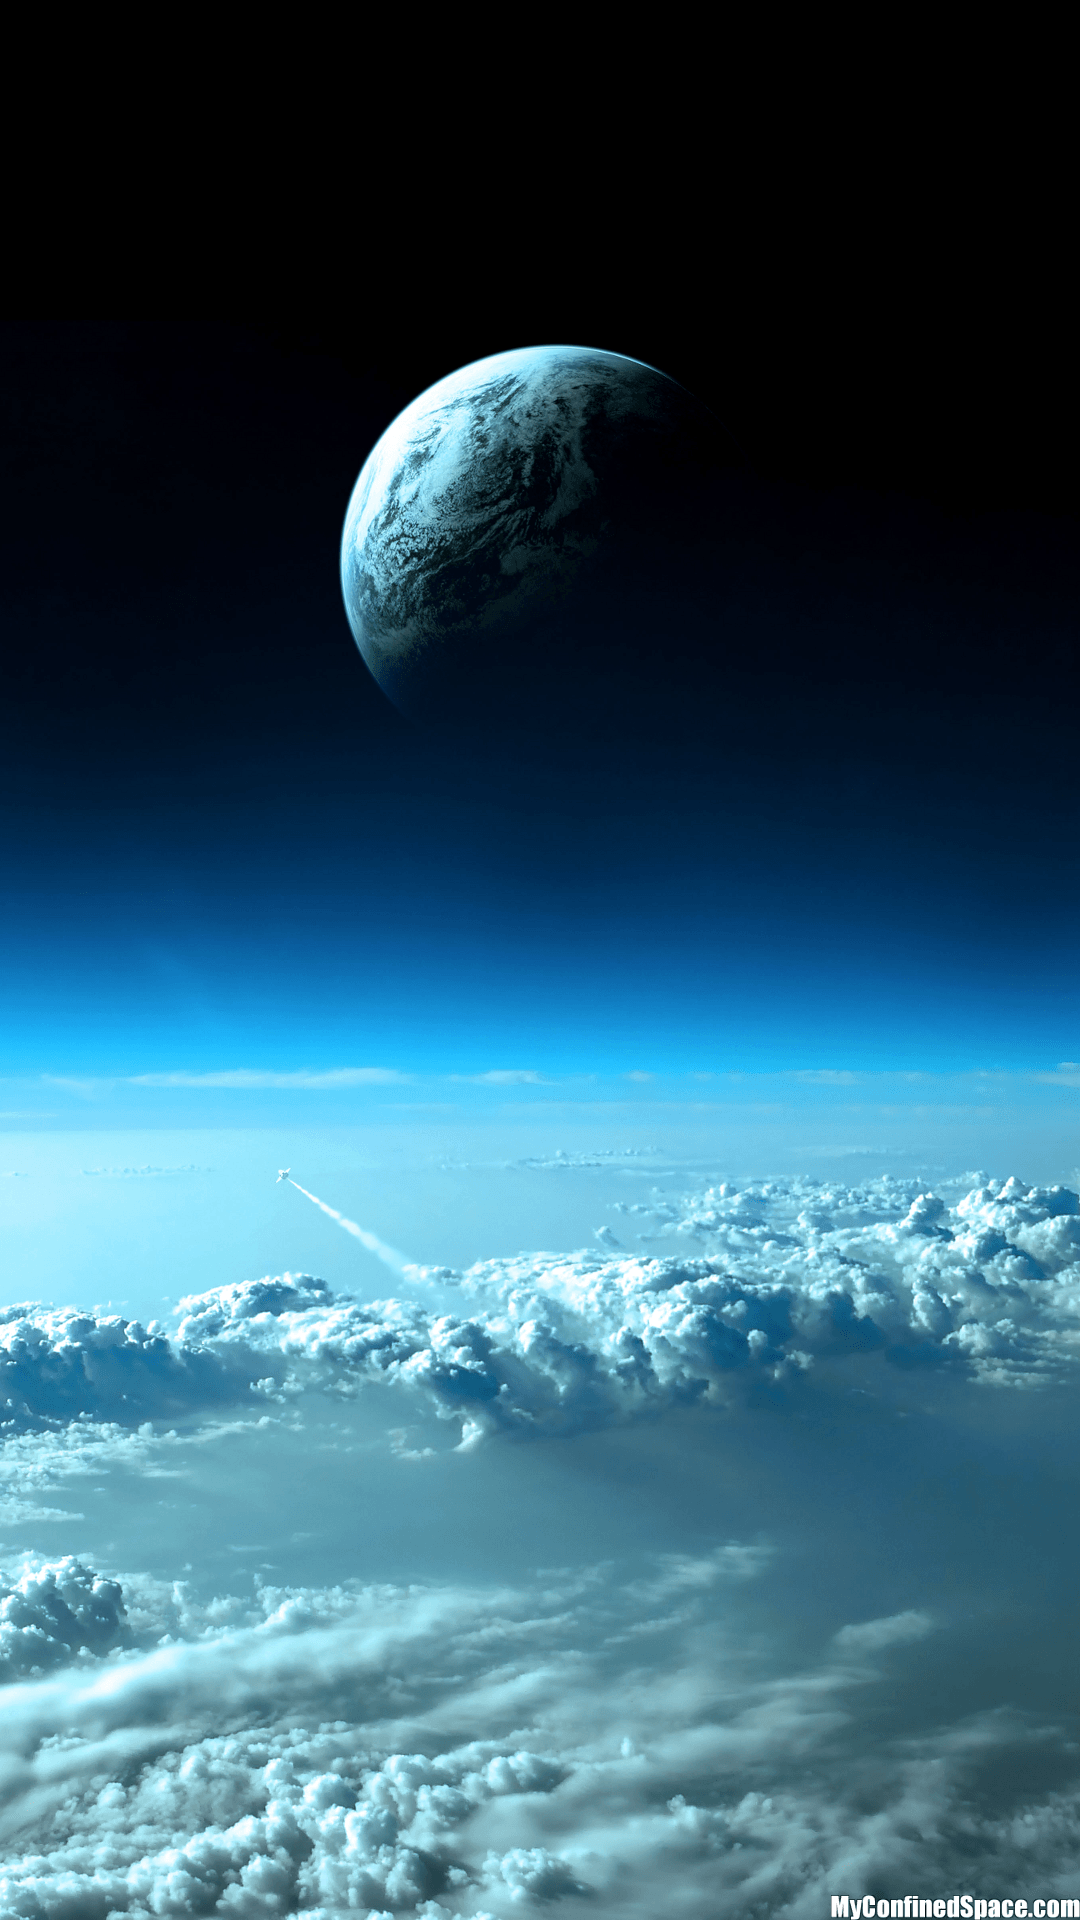
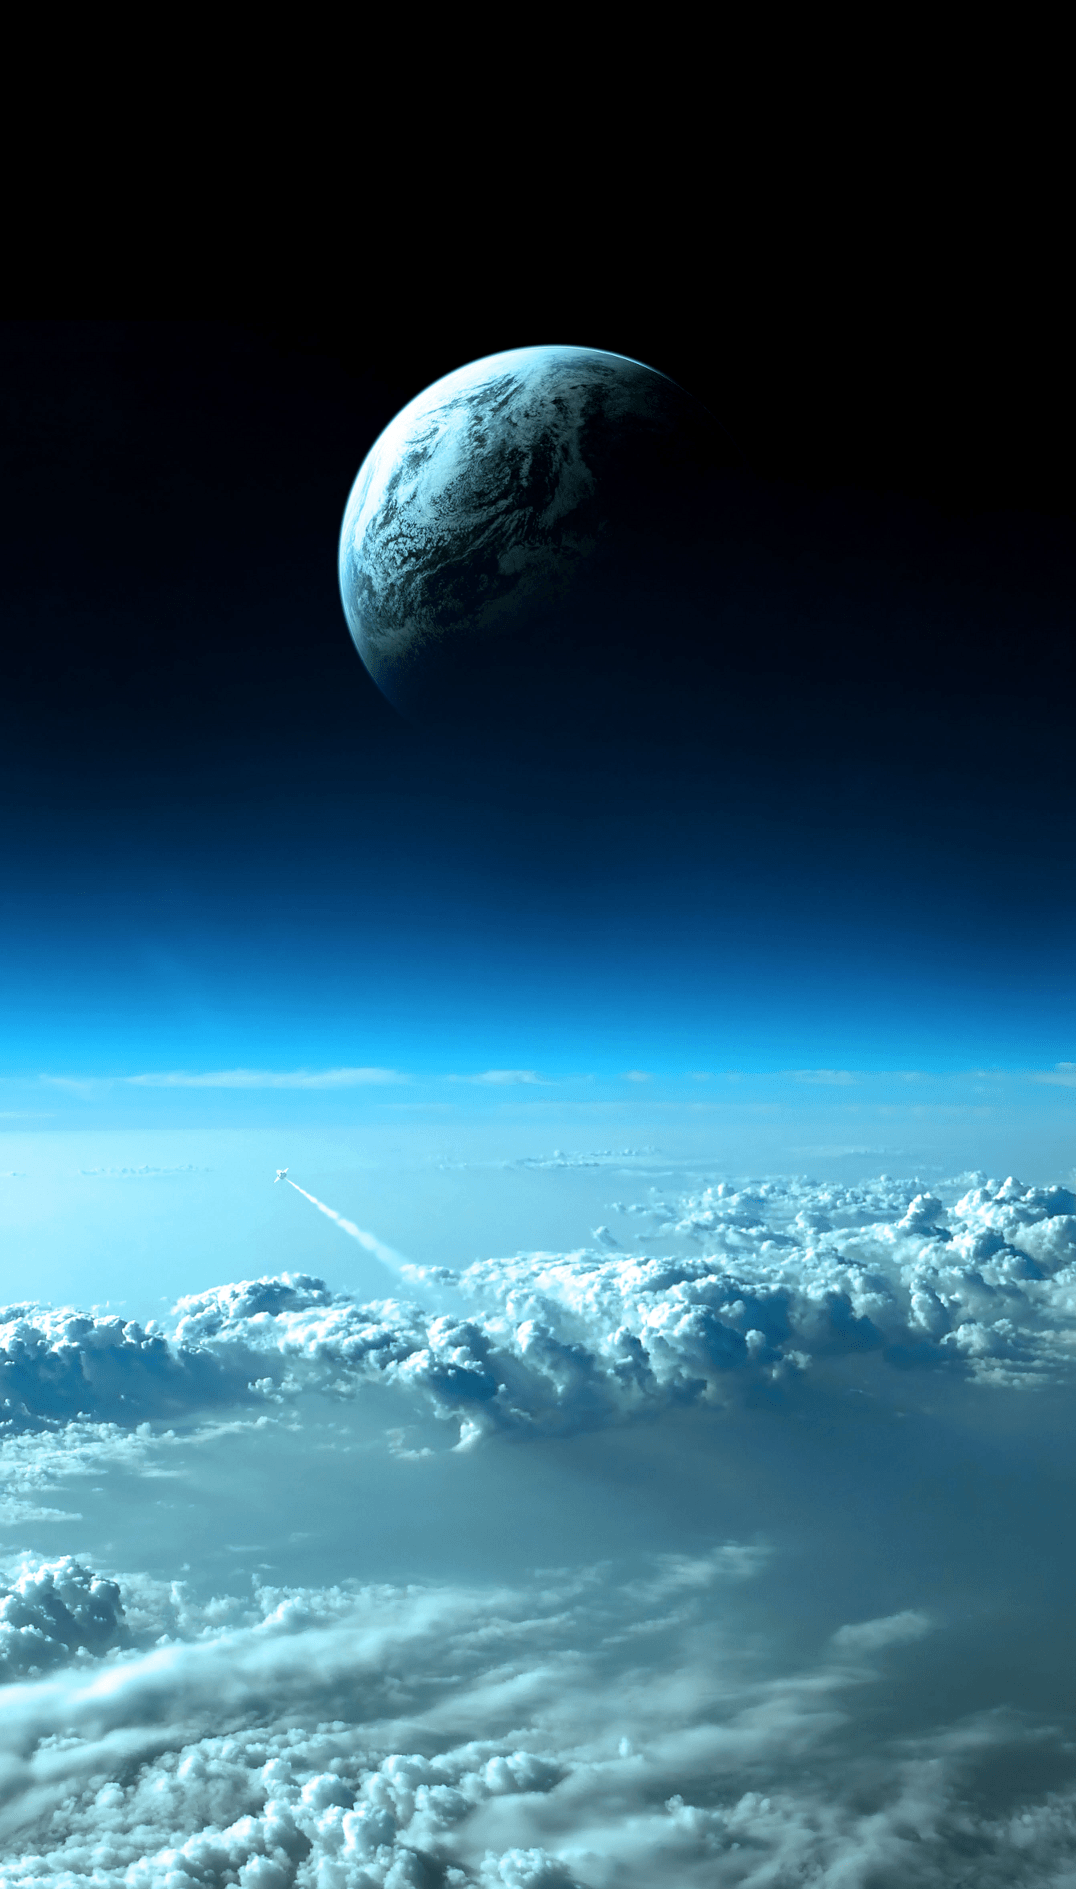
added background picture and changed color pattern

Changed region(s): [[0.0, 0.531, 1.0, 1.0], [0.3067, 0.1562, 0.6134, 0.3748]]

diff --git a/assets/css/stylesheet.css b/assets/css/stylesheet.css
@@ -1,7 +1,7 @@
 :root{
     --primary-color: rgb(103, 59, 134);
     --secondary-color: #f8f5f5;
-    --tertiary-color: #dfd4d4;
+    --tertiary-color: rgb(214, 149, 255);
 }
 
 *{
@@ -21,13 +21,15 @@ a{
 body{
     font-family: Alata, Helvetica, Arial, sans-serif;
     background: linear-gradient(45deg, var(--tertiary-color), transparent);
+    background-image: url("./../images/Purp.jpg");
+    background-size: cover;
 }
-
 
 header{
     height: 100%;
     width: 14%;
     position: fixed;
+    z-index: 10;
     /*background: linear-gradient(85deg, var(--tertiary-color), transparent);*/
 }
 
@@ -42,7 +44,7 @@ header nav ul {
 
 header nav ul a li{
     padding: 9% 0;
-    color: #545454;
+    color: white;
     font-size: 18px;
     font-weight: 150;
     text-align: center;
@@ -54,9 +56,9 @@ header nav ul a li{
 }
 
 header nav ul a li:hover {
-    background: whitesmoke;
+    background: rgba(255,255,255,.8);
     color: var(--primary-color);
-    width: 105%;
+    width: 110%;
 }
 
 main{
@@ -70,15 +72,14 @@ main h1 {
     text-align: left;
     font-family: Alata, 'Franklin Gothic Medium', 'Arial Narrow', Arial, sans-serif;
     font-size: 42px;
-    color: var(--primary-color);
+    color: white;
     border-bottom: 5px solid var(--tertiary-color);
     border-radius: 0 0 6% 6%;
-    /*background: linear-gradient(323deg, var(--secondary-color), transparent);*/
 }
 
 main h1 span{
     /*font-size: 42px;*/
-    color: black;
+    color: var(--tertiary-color);
 }
 
 main section{
@@ -93,10 +94,11 @@ main section{
     text-align: center;
     margin: 4% auto 0 auto;
     width: 89%;
+    color: white;
 }
 
 .content {
-    background: var(--secondary-color);
+    background: rgba(255,255,255,.28);
     width: 80%;
     margin: 0px auto;
     border-radius: 0 0 50px 50px;
@@ -107,6 +109,7 @@ main section{
     margin: 4% auto 0 auto;
     width: 65%;
     border-radius: 40px;
+    opacity: .95;
 }
 
 .about-me p {
@@ -248,7 +251,7 @@ main section{
 }
 
 .contact-form input:focus, .contact-form textarea:focus{
-    background-color: rgba(255,255,255,1);
+    background-color: rgba(255,255,255,.88);
     outline: none;
 }
 
@@ -265,7 +268,8 @@ main section{
 
 .contact-form button:hover{
     color: var(--primary-color);
-    background: var(--tertiary-color);
+    background: var(--secondary-color);
+    font-weight: bold
 }
 /*Connect Styles end*/
 

diff --git a/index.html b/index.html
@@ -13,12 +13,6 @@
 
     <body>
 
-        <style>
-            body{
-                background-image: url("assets/images/bg-space.png");
-            }
-        </style>
-
         <header>
             <nav>
                 <ul>
